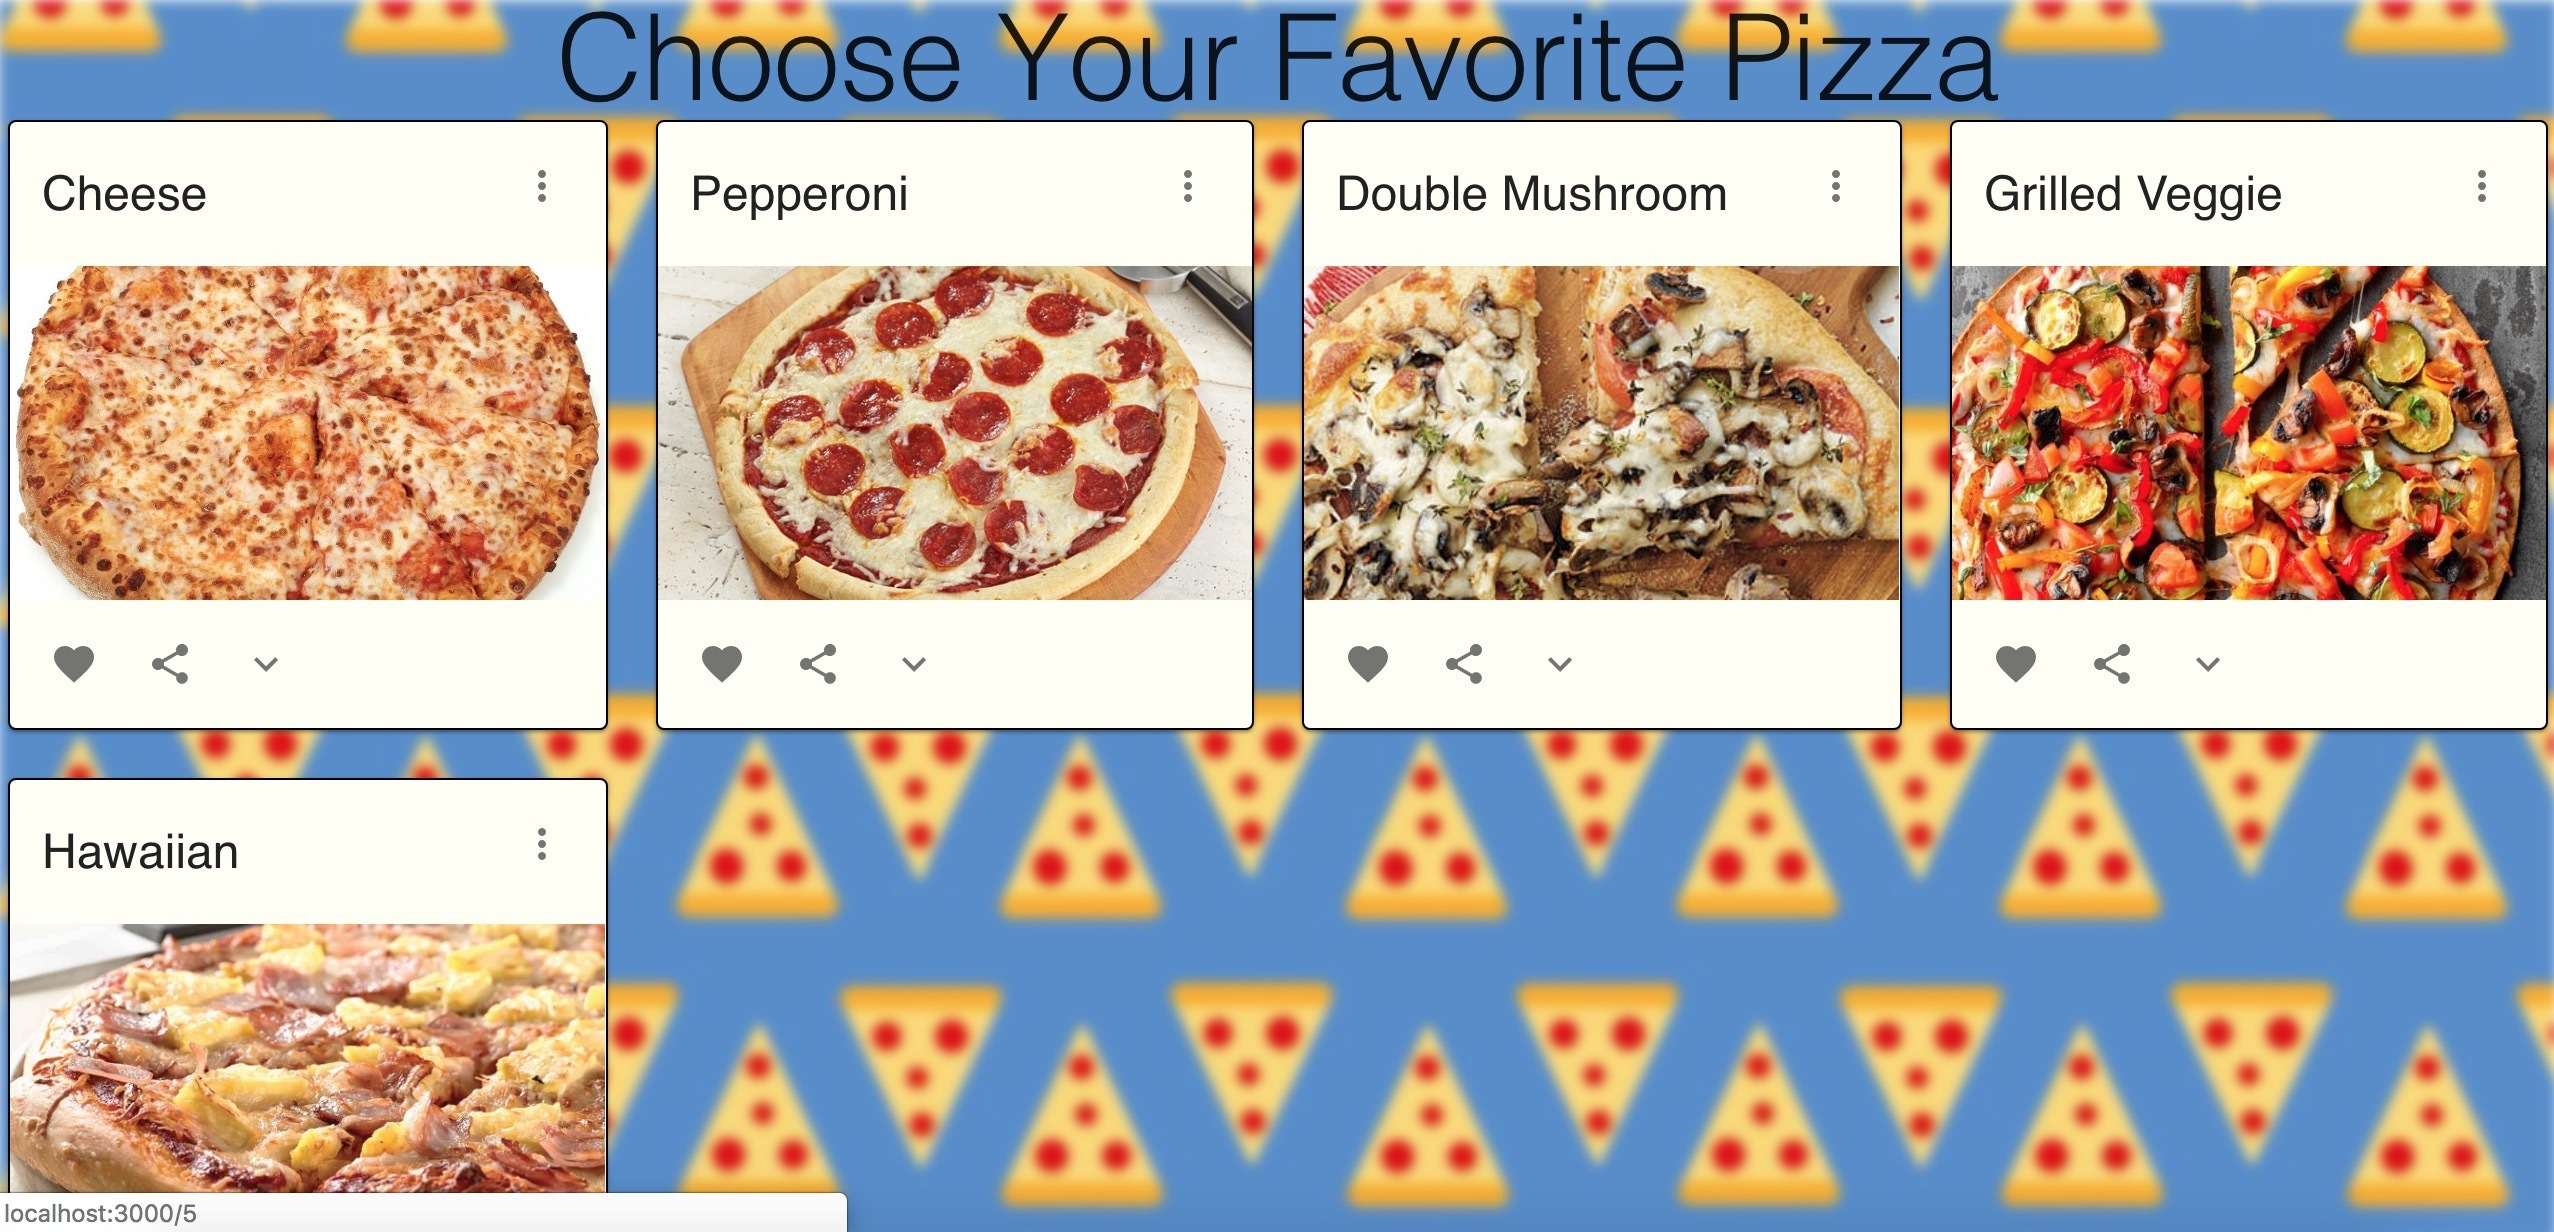
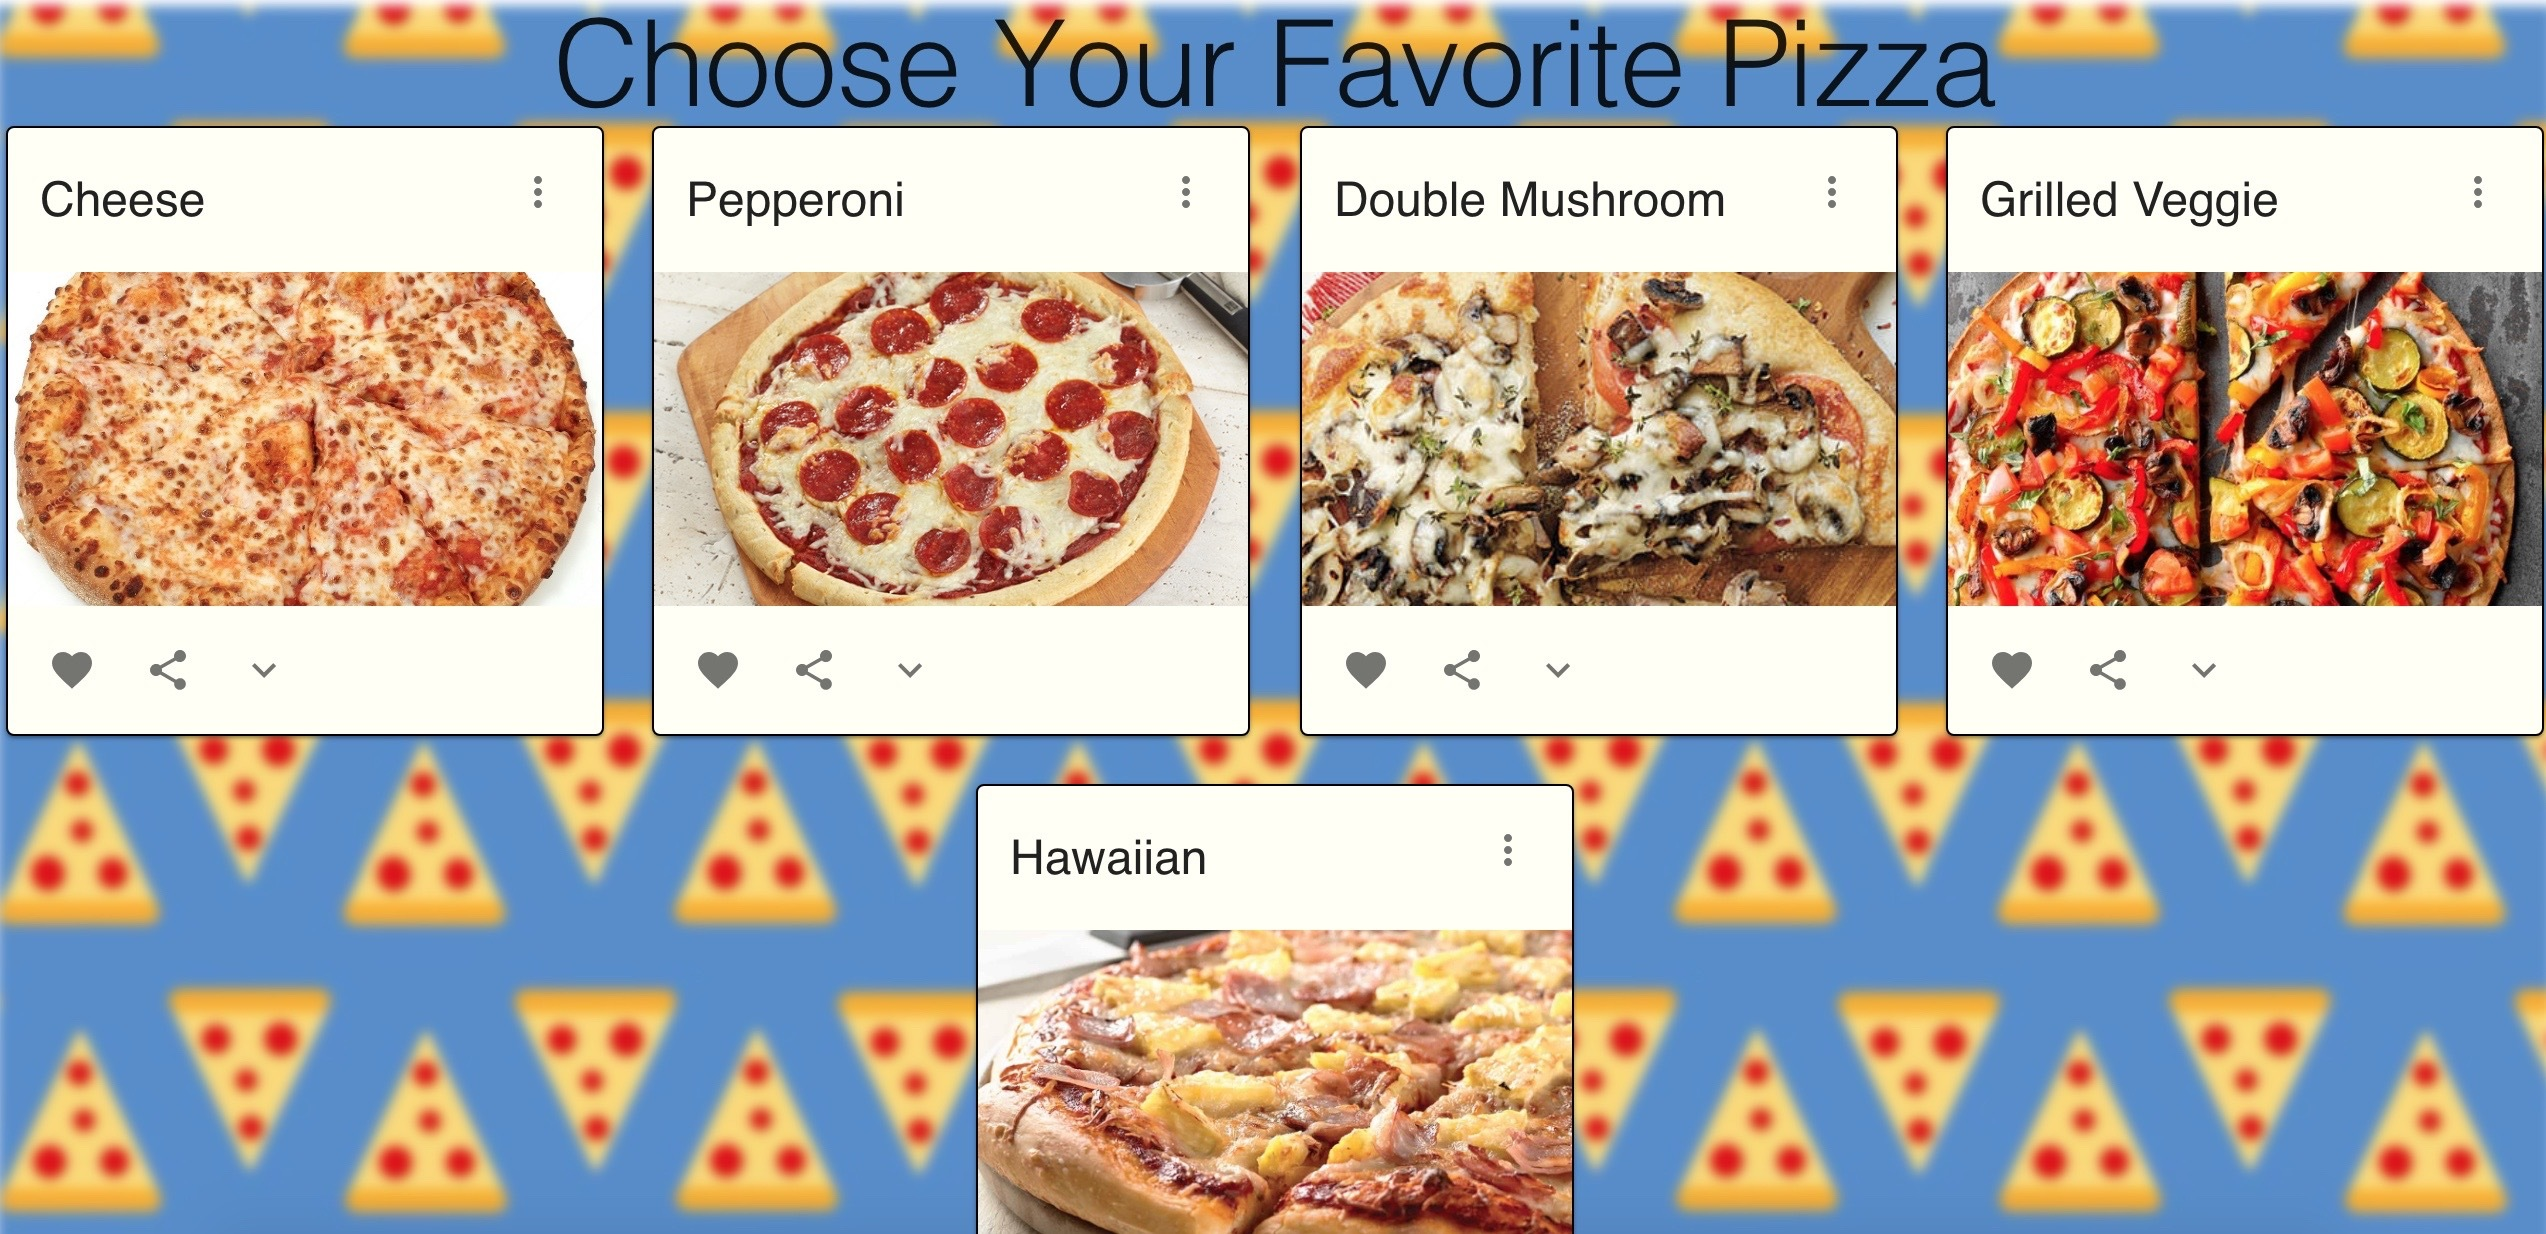
add proptypes

diff --git a/src/components/PizzaCard.js b/src/components/PizzaCard.js
@@ -70,20 +70,20 @@ class PizzaCard extends Component {
                 <MoreVertIcon />
               </IconButton>
             }
-            title={this.props.name}
+            title={this.props.pizza.name}
           />
             <CardMedia 
               className={classes.media}
-              image={this.props.img}
-              title={this.props.name}
+              image={this.props.pizza.image}
+              title={this.props.pizza.name}
             />
 
           <CardActions className={classes.actions} disableActionSpacing>
-            <IconButton aria-label="Add to favorites">  
-              <FavoriteIcon 
-                style={{color: this.state.favorited ? 'red' : ''}} 
-                onClick={(e) => {this.handleFavoriteClick(e)}}
-                />
+            <IconButton 
+              aria-label="Add to favorites" 
+              onClick={(e) => {this.handleFavoriteClick(e)}}
+            >
+              <FavoriteIcon style={{color: this.state.favorited ? 'red' : ''}} />
             </IconButton>
             <IconButton aria-label="Share">
               <ShareIcon />
@@ -99,7 +99,7 @@ class PizzaCard extends Component {
           <Collapse in={this.state.expanded} timeout="auto" unmountOnExit>
             <CardContent>
               <Typography paragraph>
-                {this.props.description}
+                {this.props.pizza.description}
               </Typography>
             </CardContent>
           </Collapse>
@@ -111,6 +111,7 @@ class PizzaCard extends Component {
 
 PizzaCard.propTypes = {
   classes: PropTypes.object.isRequired,
+  pizza: PropTypes.object.isRequired
 };
 
 export default withStyles(styles)(PizzaCard);

diff --git a/src/components/PizzaListing.js b/src/components/PizzaListing.js
@@ -1,5 +1,6 @@
 import React, { Component } from 'react';
 import { Link } from "react-router-dom";
+import PropTypes from 'prop-types';
 
 import PizzaCard from './PizzaCard'
 
@@ -15,17 +16,14 @@ class PizzaListing extends Component {
         <div>
           <Typography variant="h2" align="center">Choose Your Favorite Pizza</Typography>
 
-          <Grid container spacing={24}>
+          <Grid container spacing={24} justify="center" >
           	{this.props.pizzas.map(pizza => 
               <Grow key={pizza.id} in={true}>
-                <Grid item md={3}>
+                <Grid item xs={6} sm={3}>
 
                   <Link to={`/${pizza.id}`} style={{ textDecoration: 'none' }}>          
                 		<PizzaCard
-                      id={pizza.id}
-                      name={pizza.name} 
-                      description={pizza.description} 
-                      img={pizza.image}
+                      pizza={pizza}
                     />
                   </Link>
 
@@ -38,5 +36,9 @@ class PizzaListing extends Component {
     );
   }
 }
+
+PizzaListing.propTypes = {
+  pizzas: PropTypes.array.isRequired,
+};
 
 export default PizzaListing;

diff --git a/src/components/PizzaDescription.js b/src/components/PizzaDescription.js
@@ -1,4 +1,5 @@
 import React, { Component } from 'react';
+import PropTypes from 'prop-types';
 
 import { withStyles } from '@material-ui/core/styles';
 import Typography from '@material-ui/core/Typography';
@@ -43,5 +44,10 @@ export class PizzaDescription extends Component {
     );
   }
 }
+
+PizzaDescription.propTypes = {
+	classes: PropTypes.object.isRequired,
+  pizza: PropTypes.object.isRequired
+};
 
 export default withStyles(styles)(PizzaDescription);

diff --git a/src/App.js b/src/App.js
@@ -36,4 +36,5 @@ class App extends Component {
   }
 }
 
+
 export default App;

diff --git a/README.md b/README.md
@@ -4,7 +4,7 @@ Pizza Menu App is a Single Page Appliaction online menu for a fictional pizzeria
 
 # Motivation
   
-  This app takes the traditional menu and makes it interactive and fun to view.
+  This app takes the traditional menu and makes it interactive and fun to view. I decided to choose a simplistic design to display each image and title. The ability to expand click makes it easier for the user to view the description of each pizza. Users can also navigate to each individual pizza page for more information about that specific product.  
 
 # Tech
 
@@ -24,16 +24,16 @@ Pizza Menu App uses a number of open source projects to work properly:
 * Each Pizza has its own unique discription page
 * Exapand click description for each pizza
 * Ability to favorite pizzas
-
+* Responsive Grid System
 
 
 # Code Example
 
 **Using React Router To Render Component Based on ID**
 ```javascript
-          <Route path="/:id" render={(props) => (
-            <PizzaDescription pizza={Pizzas.find(pizza => pizza.id === parseInt(props.match.params.id))}/>
-          )}/> 
+      <Route path="/:id" render={(props) => (
+        <PizzaDescription pizza={Pizzas.find(pizza => pizza.id === parseInt(props.match.params.id))}/>
+      )}/> 
 ```
 
 
